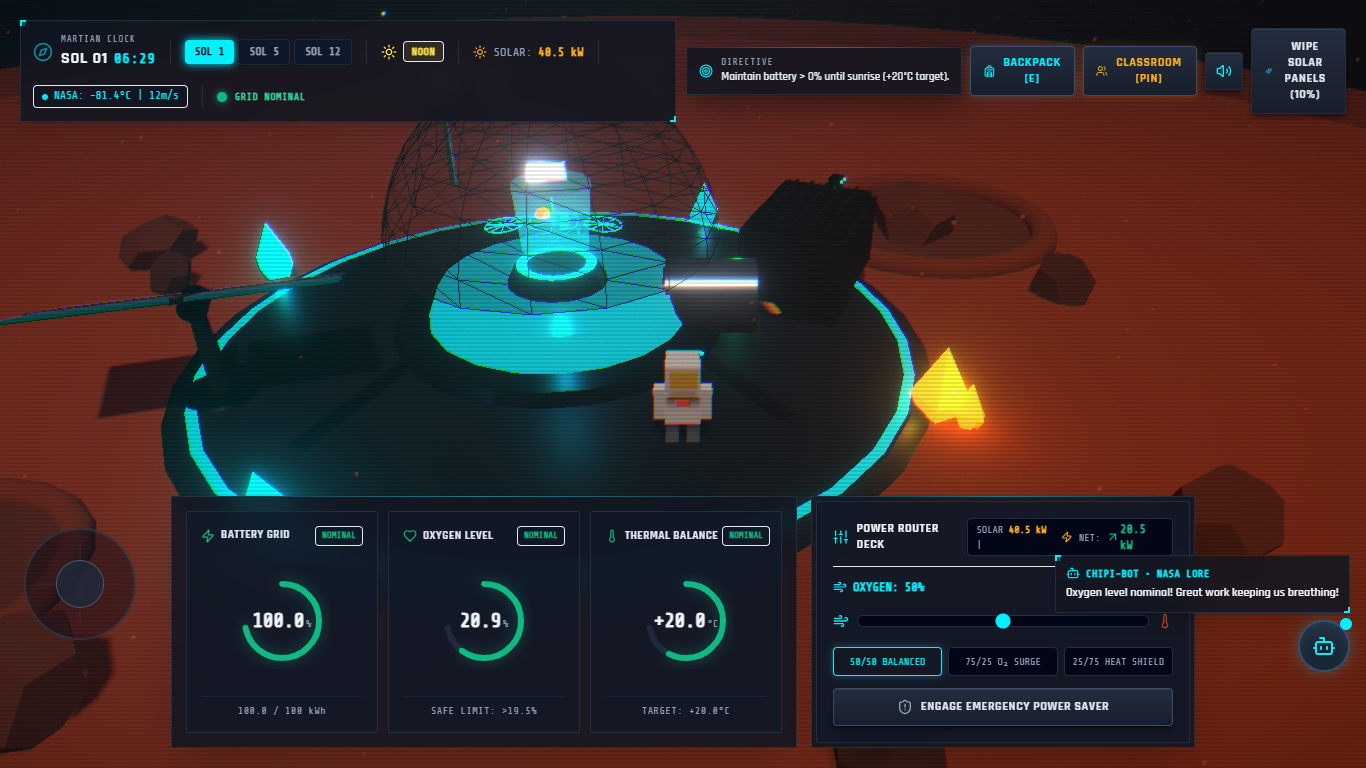
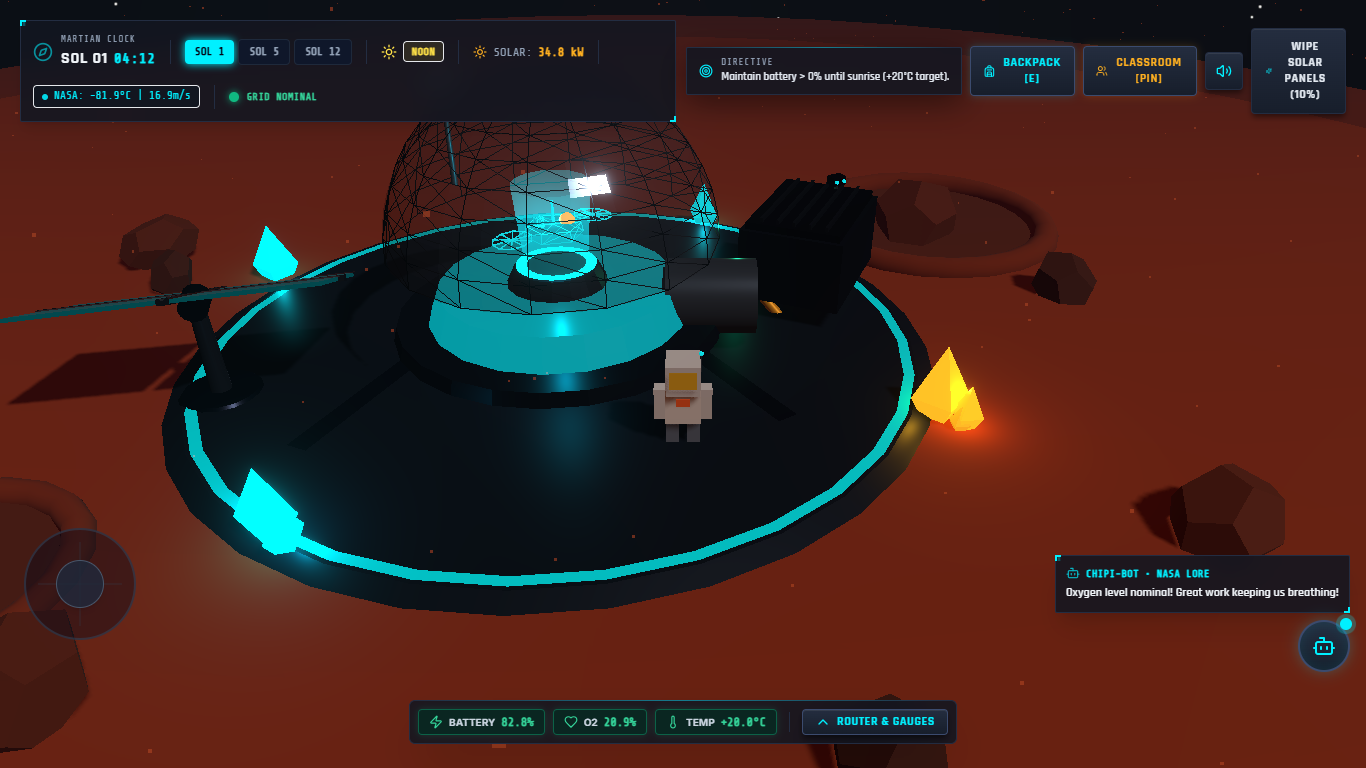
refactor(ui): smooth eye-friendly 3d visuals and collapsible minimal telemetry hud

diff --git a/src/modules/mission-control/MissionControlOverlay.tsx b/src/modules/mission-control/MissionControlOverlay.tsx
@@ -1,7 +1,8 @@
-import React, { useEffect } from 'react';
-import { motion } from 'framer-motion';
-import { Zap, Heart, Thermometer } from 'lucide-react';
+import React, { useState, useEffect } from 'react';
+import { motion, AnimatePresence } from 'framer-motion';
+import { Zap, Heart, Thermometer, ChevronUp, ChevronDown } from 'lucide-react';
 import { useOutpostStore } from '@/modules/store/useOutpostStore';
+import { soundEngine } from '@/modules/audio/soundEngine';
 
 import ResourceDial, { ResourceStatus } from './ResourceDial';
 import PowerDistributor from './PowerDistributor';
@@ -21,7 +22,30 @@ const springPhysics = {
   mass: 0.8
 };
 
+const statusPillStyles: Record<ResourceStatus, { text: string; bg: string; border: string; glow: string }> = {
+  safe: {
+    text: 'text-emerald-400',
+    bg: 'bg-emerald-950/70',
+    border: 'border-emerald-500/40',
+    glow: 'shadow-[0_0_8px_rgba(16,185,129,0.2)]'
+  },
+  warning: {
+    text: 'text-amber-400',
+    bg: 'bg-amber-950/70',
+    border: 'border-amber-500/40',
+    glow: 'shadow-[0_0_8px_rgba(255,176,32,0.2)]'
+  },
+  critical: {
+    text: 'text-rose-400',
+    bg: 'bg-rose-950/70',
+    border: 'border-rose-500/50',
+    glow: 'shadow-[0_0_10px_rgba(244,63,94,0.35)]'
+  }
+};
+
 export const MissionControlOverlay: React.FC = () => {
+  const [isHudCollapsed, setIsHudCollapsed] = useState(true);
+
   const battery = useOutpostStore((state) => state.battery);
   const batteryKwh = useOutpostStore((state) => state.batteryKwh);
   const batteryCapacityKwh = useOutpostStore((state) => state.batteryCapacityKwh);
@@ -55,61 +79,145 @@ export const MissionControlOverlay: React.FC = () => {
       {/* Top Banner: Sol Clock, Phase, Directives & Dust Cleaner */}
       <StageBanner />
 
-      {/* Floating Bottom Mission Control HUD: Gauges & Power Allocation */}
-      <footer className="w-full max-w-5xl mx-auto pointer-events-auto flex flex-col lg:flex-row gap-2.5 sm:gap-3.5 items-stretch pb-1 sm:pb-0">
-        {/* Core Resource Telemetry Gauges (3-Dial Deck) */}
-        <motion.div
-          initial={{ opacity: 0, y: 35 }}
-          animate={{ opacity: 1, y: 0 }}
-          transition={springPhysics}
-          className="hud-panel p-2 sm:p-3.5 rounded-sm flex-1 grid grid-cols-3 gap-1.5 sm:gap-2.5 shadow-2xl"
-        >
-          {/* Battery Telemetry Dial */}
-          <ResourceDial
-            label="Battery Grid"
-            value={battery}
-            displayValue={battery.toFixed(1)}
-            unit="%"
-            subtext={`${batteryKwh.toFixed(1)} / ${batteryCapacityKwh.toFixed(0)} kWh`}
-            percentage={battery}
-            status={batteryStatus}
-            icon={Zap}
-          />
+      {/* Floating Bottom Mission Control HUD: Compact Minimalist Bar vs Expanded Deck */}
+      <footer className="w-full max-w-5xl mx-auto flex flex-col items-center pb-1 select-none">
+        <AnimatePresence mode="wait">
+          {isHudCollapsed ? (
+            /* Compact Mode: Minimalist Telemetry Pill Bar (Non-intrusive) */
+            <motion.div
+              key="compact-hud"
+              initial={{ opacity: 0, y: 20 }}
+              animate={{ opacity: 1, y: 0 }}
+              exit={{ opacity: 0, y: 20 }}
+              transition={springPhysics}
+              className="hud-panel p-1.5 sm:p-2 rounded-md shadow-2xl flex items-center justify-between gap-2 sm:gap-3 pointer-events-auto border border-mars-border"
+            >
+              {/* 3 Status Pills: Battery, Oxygen, Thermal */}
+              <div className="flex items-center gap-1.5 sm:gap-2">
+                {/* Battery Indicator */}
+                <div
+                  className={`flex items-center gap-1.5 px-2.5 py-1 rounded border font-mono text-xs font-bold ${statusPillStyles[batteryStatus].bg} ${statusPillStyles[batteryStatus].border} ${statusPillStyles[batteryStatus].text} ${statusPillStyles[batteryStatus].glow}`}
+                  title={`Battery Grid: ${battery.toFixed(1)}% (${batteryKwh.toFixed(1)} / ${batteryCapacityKwh.toFixed(0)} kWh)`}
+                >
+                  <Zap className="w-3.5 h-3.5" />
+                  <span className="hidden sm:inline text-[10px] uppercase font-sans text-slate-300">BATTERY</span>
+                  <span>{battery.toFixed(1)}%</span>
+                </div>
 
-          {/* Oxygen Saturation Dial */}
-          <ResourceDial
-            label="Oxygen Level"
-            value={oxygen}
-            displayValue={oxygen.toFixed(1)}
-            unit="%"
-            subtext="SAFE LIMIT: >19.5%"
-            percentage={(oxygen / 25) * 100}
-            status={oxygenStatus}
-            icon={Heart}
-          />
+                {/* Oxygen Indicator */}
+                <div
+                  className={`flex items-center gap-1.5 px-2.5 py-1 rounded border font-mono text-xs font-bold ${statusPillStyles[oxygenStatus].bg} ${statusPillStyles[oxygenStatus].border} ${statusPillStyles[oxygenStatus].text} ${statusPillStyles[oxygenStatus].glow}`}
+                  title={`Oxygen Level: ${oxygen.toFixed(1)}%`}
+                >
+                  <Heart className="w-3.5 h-3.5" />
+                  <span className="hidden sm:inline text-[10px] uppercase font-sans text-slate-300">O2</span>
+                  <span>{oxygen.toFixed(1)}%</span>
+                </div>
 
-          {/* Habitat Temperature Dial */}
-          <ResourceDial
-            label="Thermal Balance"
-            value={temperature}
-            displayValue={`${temperature > 0 ? '+' : ''}${temperature.toFixed(1)}`}
-            unit="°C"
-            subtext="TARGET: +20.0°C"
-            percentage={Math.max(0, Math.min(100, ((temperature + 40) / 75) * 100))}
-            status={tempStatus}
-            icon={Thermometer}
-          />
-        </motion.div>
+                {/* Temperature Indicator */}
+                <div
+                  className={`flex items-center gap-1.5 px-2.5 py-1 rounded border font-mono text-xs font-bold ${statusPillStyles[tempStatus].bg} ${statusPillStyles[tempStatus].border} ${statusPillStyles[tempStatus].text} ${statusPillStyles[tempStatus].glow}`}
+                  title={`Habitat Temperature: ${temperature.toFixed(1)}°C`}
+                >
+                  <Thermometer className="w-3.5 h-3.5" />
+                  <span className="hidden sm:inline text-[10px] uppercase font-sans text-slate-300">TEMP</span>
+                  <span>{temperature > 0 ? '+' : ''}{temperature.toFixed(1)}°C</span>
+                </div>
+              </div>
 
-        {/* Tactile Power Router & Priority Deck */}
-        <motion.div
-          initial={{ opacity: 0, y: 35 }}
-          animate={{ opacity: 1, y: 0 }}
-          transition={{ ...springPhysics, delay: 0.06 }}
-          className="hud-panel p-1 rounded-sm lg:w-96 shadow-2xl"
-        >
-          <PowerDistributor />
-        </motion.div>
+              <div className="h-5 w-[1px] bg-mars-border" />
+
+              {/* Expand Toggle Button */}
+              <button
+                onClick={() => {
+                  soundEngine.playClick(900);
+                  setIsHudCollapsed(false);
+                }}
+                className="btn-tactile px-2.5 sm:px-3 py-1 rounded flex items-center gap-1.5 text-xs font-display font-bold tracking-wider border border-mars-cyan/40 text-mars-cyan bg-slate-900/80 hover:bg-slate-800"
+                title="Expand Full Telemetry Dials & Power Router"
+                data-testid="expand-hud-button"
+              >
+                <ChevronUp className="w-4 h-4" />
+                <span className="hidden sm:inline">ROUTER & GAUGES</span>
+              </button>
+            </motion.div>
+          ) : (
+            /* Expanded Mode: Full 3-Dial Deck & Power Distributor */
+            <motion.div
+              key="expanded-hud"
+              initial={{ opacity: 0, y: 30 }}
+              animate={{ opacity: 1, y: 0 }}
+              exit={{ opacity: 0, y: 30 }}
+              transition={springPhysics}
+              className="w-full flex flex-col gap-2 pointer-events-auto"
+            >
+              {/* Header Bar with Collapse Button */}
+              <div className="flex items-center justify-between px-3 py-1 bg-slate-950/85 border border-mars-border rounded-sm backdrop-blur-sm shadow-md">
+                <span className="text-[10px] font-mono uppercase tracking-widest text-slate-400 font-bold">
+                  TELEMETRY GAUGES & POWER ROUTER
+                </span>
+                <button
+                  onClick={() => {
+                    soundEngine.playClick(650);
+                    setIsHudCollapsed(true);
+                  }}
+                  className="btn-tactile px-2.5 py-0.5 rounded flex items-center gap-1 text-[11px] font-display font-bold tracking-wider border border-slate-700 text-slate-300 hover:text-white"
+                  title="Collapse to Minimalist Compact Bar"
+                  data-testid="collapse-hud-button"
+                >
+                  <ChevronDown className="w-3.5 h-3.5" />
+                  <span>COLLAPSE HUD [⌄]</span>
+                </button>
+              </div>
+
+              <div className="flex flex-col lg:flex-row gap-2.5 sm:gap-3.5 items-stretch">
+                {/* Core Resource Telemetry Gauges (3-Dial Deck) */}
+                <div className="hud-panel p-2 sm:p-3.5 rounded-sm flex-1 grid grid-cols-3 gap-1.5 sm:gap-2.5 shadow-2xl">
+                  {/* Battery Telemetry Dial */}
+                  <ResourceDial
+                    label="Battery Grid"
+                    value={battery}
+                    displayValue={battery.toFixed(1)}
+                    unit="%"
+                    subtext={`${batteryKwh.toFixed(1)} / ${batteryCapacityKwh.toFixed(0)} kWh`}
+                    percentage={battery}
+                    status={batteryStatus}
+                    icon={Zap}
+                  />
+
+                  {/* Oxygen Saturation Dial */}
+                  <ResourceDial
+                    label="Oxygen Level"
+                    value={oxygen}
+                    displayValue={oxygen.toFixed(1)}
+                    unit="%"
+                    subtext="SAFE LIMIT: >19.5%"
+                    percentage={(oxygen / 25) * 100}
+                    status={oxygenStatus}
+                    icon={Heart}
+                  />
+
+                  {/* Habitat Temperature Dial */}
+                  <ResourceDial
+                    label="Thermal Balance"
+                    value={temperature}
+                    displayValue={`${temperature > 0 ? '+' : ''}${temperature.toFixed(1)}`}
+                    unit="°C"
+                    subtext="TARGET: +20.0°C"
+                    percentage={Math.max(0, Math.min(100, ((temperature + 40) / 75) * 100))}
+                    status={tempStatus}
+                    icon={Thermometer}
+                  />
+                </div>
+
+                {/* Tactile Power Router & Priority Deck */}
+                <div className="hud-panel p-1 rounded-sm lg:w-96 shadow-2xl">
+                  <PowerDistributor />
+                </div>
+              </div>
+            </motion.div>
+          )}
+        </AnimatePresence>
       </footer>
 
       {/* Emergency Event Pop-up Modal */}

diff --git a/src/modules/outpost-3d/MarsCanvas.tsx b/src/modules/outpost-3d/MarsCanvas.tsx
@@ -4,12 +4,8 @@ import { OrbitControls } from '@react-three/drei';
 import * as THREE from 'three';
 import { 
   EffectComposer, 
-  Bloom, 
-  Noise, 
-  Vignette, 
-  ChromaticAberration 
+  Bloom 
 } from '@react-three/postprocessing';
-import { BlendFunction } from 'postprocessing';
 import { useControls, Leva } from 'leva';
 import { useOutpostStore } from '@/modules/store/useOutpostStore';
 
@@ -45,72 +41,34 @@ function SimulationLoopDriver() {
 }
 
 /**
- * Task 9.3: GPU Post-Processing Pipeline
- * - Bloom for energy crystals, LEDs and habitat dome
- * - Noise & Vignette (red/orange) dynamically surging with dust storms
- * - Chromatic Aberration during power brownouts / voltage dips
+ * Task 9.3 & Fine-Tune Polish: Eye-Friendly Soft Lighting Pipeline
+ * - Gentle, low-intensity Bloom (< 0.28) exclusively for dome glass and crystal emissives
+ * - Zero Noise, Zero Chromatic Aberration, Zero harsh neon flicker for maximum visual comfort
  */
 function PostProcessingPipeline({ isDebug }: { isDebug: boolean }) {
-  const activeEvents = useOutpostStore((state) => state.activeEvents);
-  const dustCoverage = useOutpostStore((state) => state.dustCoverage);
-  const battery = useOutpostStore((state) => state.battery);
-  const emergencyPowerSaver = useOutpostStore((state) => state.emergencyPowerSaver);
   const solPhase = useOutpostStore((state) => state.solPhase);
 
-  const isStormActive = activeEvents.some(
-    (e) => e.active && !e.resolved && e.type === 'dust_storm'
-  );
-  const isBrownout = battery <= 0;
-
-  // Real-time calculated dynamic baseline
-  const calcBloom = solPhase === 'Night' || solPhase === 'Sunset' ? 1.6 : 0.9;
-  const calcNoise = isStormActive ? 0.35 : dustCoverage > 0.3 ? 0.2 : 0.05;
-  const calcVignette = isStormActive ? 0.8 : dustCoverage > 0.3 ? 0.55 : 0.38;
-  const calcAberration = isBrownout ? 0.006 : emergencyPowerSaver ? 0.0025 : 0.0008;
+  // Soft, eye-pleasing subtle bloom baseline
+  const calcBloom = solPhase === 'Night' ? 0.26 : 0.18;
 
   // Interactive GUI for developer calibration (Active when URL has ?debug=true)
   const [controls] = useControls(
-    'Mars Post-Processing & Storm Shader',
+    'Mars Post-Processing & Lighting',
     () => ({
-      bloomIntensity: { value: calcBloom, min: 0, max: 3.5, step: 0.1 },
-      noiseOpacity: { value: calcNoise, min: 0, max: 1.0, step: 0.02 },
-      vignetteDarkness: { value: calcVignette, min: 0, max: 1.5, step: 0.05 },
-      chromaticAberration: { value: calcAberration, min: 0, max: 0.02, step: 0.001 }
+      bloomIntensity: { value: calcBloom, min: 0, max: 1.0, step: 0.02 }
     }),
-    { collapsed: false }
+    { collapsed: true }
   );
 
   const bloomIntensity = isDebug ? controls.bloomIntensity : calcBloom;
-  const noiseOpacity = isDebug ? controls.noiseOpacity : calcNoise;
-  const vignetteDarkness = isDebug ? controls.vignetteDarkness : calcVignette;
-  const aberrationAmount = isDebug ? controls.chromaticAberration : calcAberration;
-
-  const aberrationOffset = useMemo(
-    () => new THREE.Vector2(aberrationAmount, aberrationAmount),
-    [aberrationAmount]
-  );
 
   return (
     <EffectComposer multisampling={0} enableNormalPass={false}>
       <Bloom
-        luminanceThreshold={0.22}
-        luminanceSmoothing={0.8}
+        luminanceThreshold={0.72}
+        luminanceSmoothing={0.65}
         intensity={bloomIntensity}
         mipmapBlur
-      />
-      <Noise
-        opacity={noiseOpacity}
-        blendFunction={BlendFunction.OVERLAY}
-      />
-      <Vignette
-        eskil={false}
-        offset={0.22}
-        darkness={vignetteDarkness}
-      />
-      <ChromaticAberration
-        offset={aberrationOffset}
-        radialModulation={false}
-        modulationOffset={0}
       />
     </EffectComposer>
   );

diff --git a/src/styles/hallmark-tokens.css b/src/styles/hallmark-tokens.css
@@ -280,14 +280,9 @@
     linear-gradient(to bottom, rgba(35, 45, 66, 0.25) 1px, transparent 1px);
 }
 
-/* Scanline Overlay (Subtle 2% texture) */
+/* Scanline Overlay (Disabled for clean visual comfort) */
 .scanlines {
-  background: linear-gradient(
-    rgba(18, 22, 32, 0) 50%, 
-    rgba(0, 0, 0, 0.25) 50%
-  );
-  background-size: 100% 4px;
-  pointer-events: none;
+  display: none;
 }
 
 /* CRT / Monospace readouts */

diff --git a/src/App.tsx b/src/App.tsx
@@ -10,9 +10,6 @@ export const App: React.FC = () => {
 
       {/* Hallmark Mission Control Tactical HUD */}
       <MissionControlOverlay />
-
-      {/* Subtle CRT Scanline Texture Layer (Anti-slop polish) */}
-      <div className="absolute inset-0 scanlines pointer-events-none opacity-40" />
     </main>
   );
 };
